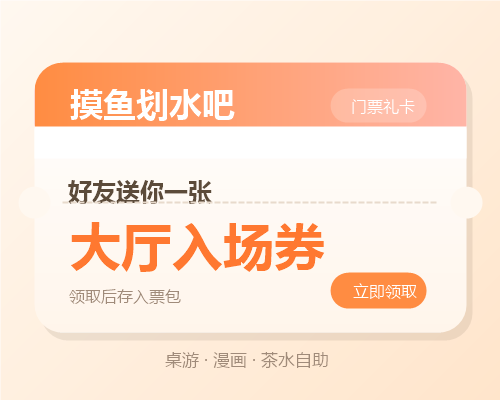
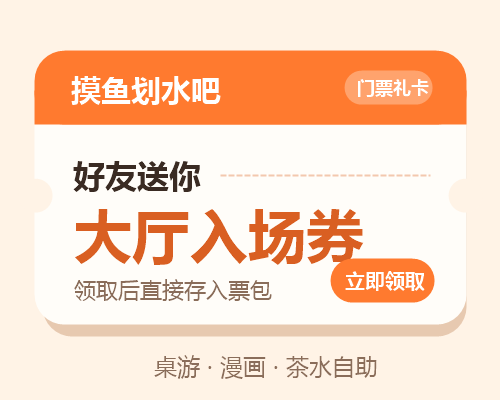
transfer ticket related modified

diff --git a/pages/ticket/list.vue b/pages/ticket/list.vue
@@ -223,7 +223,7 @@
             open-type="share" 
             class="modal-btn confirm-btn"
           >
-            包装好了，发送给好友
+            发送给好友
           </button>
         </view>
       </view>
@@ -245,7 +245,7 @@ export default {
       shareModalVisible: false,
       shareToken: '',
       shareTicket: {},
-      customMessage: '送你一张【摸鱼划水吧】大厅入场券，祝你今天摸鱼愉快！🐟',
+      customMessage: '送你一张摸鱼划水吧大厅入场券，一起去放松一下',
     };
   },
 
@@ -371,7 +371,7 @@ export default {
           this.shareToken = res.data.transfer_token;
           this.shareTicket = item;
           this.markTicketTransferring(item, res.data);
-          this.customMessage = '送你一张【摸鱼划水吧】大厅入场券，祝你今天摸鱼愉快！🐟';
+          this.customMessage = '送你一张摸鱼划水吧大厅入场券，一起去放松一下';
           this.shareModalVisible = true;
         } else {
           uni.showToast({ title: (res && res._reason) || '操作失败', icon: 'none' });
@@ -407,7 +407,7 @@ export default {
       }
       this.shareToken = item.active_transfer.transfer_token;
       this.shareTicket = item;
-      this.customMessage = '送你一张【摸鱼划水吧】大厅入场券，祝你今天摸鱼愉快！🐟';
+      this.customMessage = '送你一张摸鱼划水吧大厅入场券，一起去放松一下';
       this.shareModalVisible = true;
     },
 
@@ -449,14 +449,23 @@ export default {
       this.shareTicket = {};
     },
 
+    getGiftShareTitle() {
+      const count = Number(this.shareTicket && this.shareTicket.ticket_count) || 1;
+      return count > 1 ? '送你' + count + '张摸鱼划水吧门票' : '送你一张摸鱼划水吧门票';
+    },
+
   },
 
   onShareAppMessage(res) {
     if (res.from === 'button' && this.shareToken) {
-      const title = this.customMessage || '送你一张【摸鱼划水吧】大厅入场券，快来一起摸鱼！';
+      const message = (this.customMessage || '').trim();
+      let path = '/pages/ticket/receive?transfer_token=' + this.shareToken;
+      if (message) {
+        path += '&message=' + encodeURIComponent(message);
+      }
       return {
-        title: title,
-        path: '/pages/ticket/receive?transfer_token=' + this.shareToken,
+        title: this.getGiftShareTitle(),
+        path: path,
         imageUrl: '/static/ticket_gift_share.png',
       };
     }

diff --git a/pages/ticket/receive.vue b/pages/ticket/receive.vue
@@ -26,6 +26,7 @@
         <image class="sender-avatar" :src="parseAvatar(transferInfo.from_user_avatar) || '/static/tab-my-current.png'" mode="aspectFill"></image>
         <text class="sender-name">{{ transferInfo.from_user_nickname }} 送了你一张</text>
         <text class="ticket-name">大厅入场券 ({{ transferInfo.ticket_count || 1 }}人)</text>
+        <text class="gift-message" v-if="giftMessage">“{{ giftMessage }}”</text>
       </view>
       
       <text class="card-desc" style="margin-top: 10rpx;">一键登录后，门票将直接存入您的票包</text>
@@ -42,6 +43,7 @@
         <image class="sender-avatar" :src="parseAvatar(transferInfo.from_user_avatar) || '/static/tab-my-current.png'" mode="aspectFill"></image>
         <text class="sender-name">{{ transferInfo.from_user_nickname }} 送了你一张</text>
         <text class="ticket-name">大厅入场券 ({{ transferInfo.ticket_count || 1 }}人)</text>
+        <text class="gift-message" v-if="giftMessage">“{{ giftMessage }}”</text>
         <view class="ticket-line"></view>
         <text class="ticket-expire" v-if="transferInfo.expire_at">有效期至: {{ formatTime(transferInfo.expire_at) }}</text>
       </view>
@@ -71,6 +73,7 @@ export default {
       claimStatus: 'loading', // 'loading' | 'need_login' | 'success' | 'fail'
       errorMsg: '',
       transferInfo: {},
+      giftMessage: '',
     };
   },
 
@@ -81,6 +84,13 @@ export default {
   onLoad(options) {
     if (options.transfer_token) {
       this.transferToken = options.transfer_token;
+    }
+    if (options.message) {
+      try {
+        this.giftMessage = decodeURIComponent(options.message);
+      } catch (e) {
+        this.giftMessage = options.message;
+      }
     }
   },
 
@@ -358,6 +368,18 @@ $gray: #7F8C8D;
     font-weight: bold;
     color: #E8784A;
     margin-bottom: 30rpx;
+  }
+  .gift-message {
+    width: 100%;
+    box-sizing: border-box;
+    padding: 20rpx 24rpx;
+    margin-bottom: 26rpx;
+    border-radius: 18rpx;
+    background: #FFF3EA;
+    color: #6B5142;
+    font-size: 25rpx;
+    line-height: 1.5;
+    text-align: center;
   }
   .ticket-line {
     width: 100%;